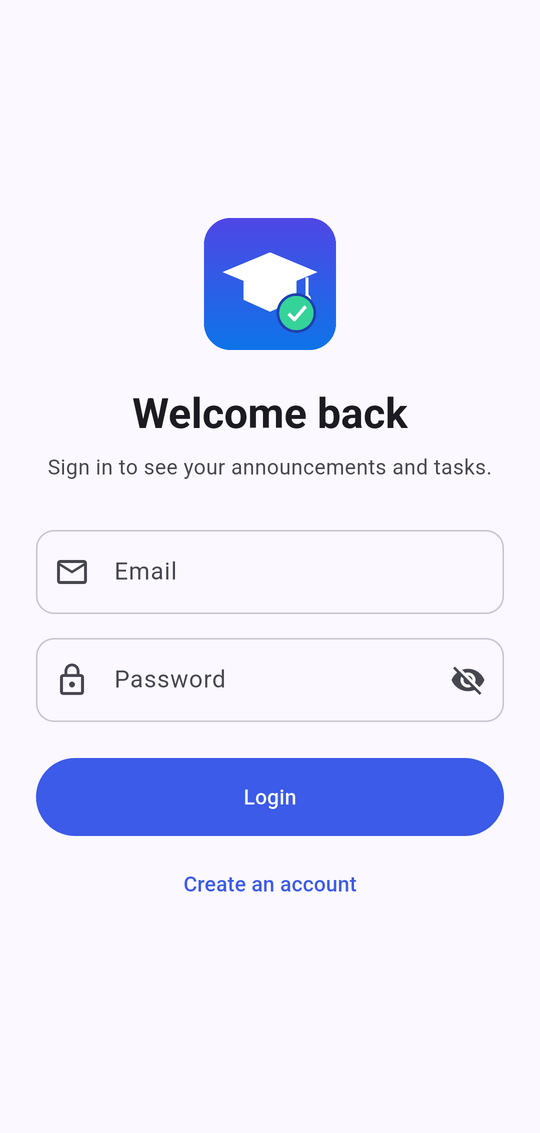
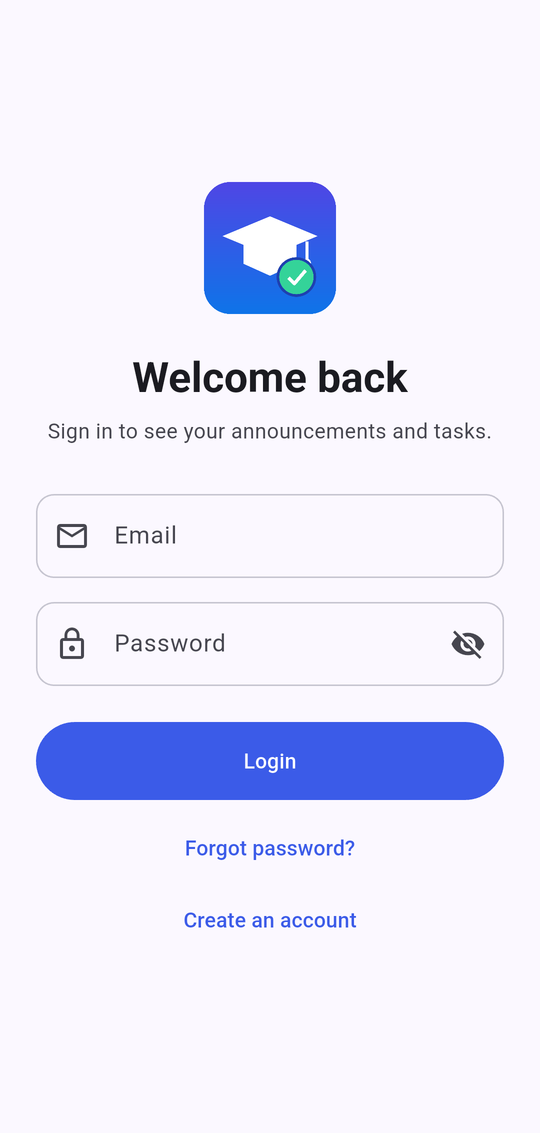
docs: document account security and add screenshots

Changed region(s): [[0.0593, 0.4325, 0.9481, 0.8341], [0.237, 0.1545, 0.8889, 0.4325], [0.0889, 0.3707, 0.2074, 0.4325]]

diff --git a/README.md b/README.md
@@ -23,7 +23,8 @@
 | **Announcements** | Category chips, full-text search, time-range filter; professors and admins can publish, edit and delete |
 | **Tasks** | Due dates with relative wording ("Due tomorrow", "3 days overdue"), status and overdue filters, search, pull-to-refresh |
 | **Administration** | Tabbed dashboard to manage users (role, suspension, name) and announcement categories |
-| **Accounts** | Email/password authentication, profile editing; suspended accounts are blocked at sign-in, signed out when the app resumes, and denied by the database |
+| **Accounts** | Email/password sign-up with **email verification** (6-digit code), a strong-password policy with a live checklist, **forgot-password** by emailed code, profile editing |
+| **Account safety** | Suspended or deleted accounts are blocked at sign-in, signed out when the app resumes, and denied by the database; breached passwords are refused |
 | **Appearance** | Light, dark or system theme, remembered on the device |
 
 Access control is enforced **in the database** with Postgres Row Level Security, not only in the UI. New accounts are always created as `student`, and only an admin can change a role.
@@ -42,6 +43,16 @@ Access control is enforced **in the database** with Postgres Row Level Security,
     <td><img src="docs/screenshots/06-account.png" alt="Account" width="220" /></td>
     <td><img src="docs/screenshots/07-admin-users.png" alt="Admin dashboard" width="220" /></td>
     <td><img src="docs/screenshots/08-home-light.png" alt="Dashboard (light)" width="220" /></td>
+  </tr>
+</table>
+
+### Account security
+
+<table>
+  <tr>
+    <td><img src="docs/screenshots/10-register.png" alt="Registration with live password checklist" width="220" /></td>
+    <td><img src="docs/screenshots/11-verify-email.png" alt="Email verification code" width="220" /></td>
+    <td><img src="docs/screenshots/12-reset-password.png" alt="Reset password" width="220" /></td>
   </tr>
 </table>
 
@@ -100,6 +111,9 @@ Everything is denied by default and the [migration](supabase/migrations/20260101
 
 - Profiles are created by a database trigger, always as `student`; a trigger blocks anyone from changing roles or suspension unless they are an admin, and admins cannot change their own.
 - Suspended users can read only their own profile, so the app can tell them why they are blocked.
+- **Passwords** need 8+ characters with upper and lower case, a number and a special character. The server enforces this (`supabase/config.toml`) and the app mirrors it for instant feedback. New passwords are also checked against known breaches with the Have I Been Pwned range API: only the first 5 characters of the password's SHA-1 hash leave the device, and the check never blocks sign-up if the service is unreachable.
+- **Email verification and password reset** use a 6-digit code typed into the app (templates in [`supabase/templates`](supabase/templates)), so they work on any phone without deep-link setup. Codes expire after 15 minutes and can be re-sent once a minute.
+- Passwords are never stored or readable: Supabase Auth keeps only a bcrypt hash.
 - Announcements are saved through one SQL function so the text and its categories change atomically.
 - The [pgTAP tests](supabase/tests/database/rls.test.sql) attack these rules (self-promotion, reading other people's tasks, publishing as a student, ...) and run in CI.
 
@@ -127,7 +141,9 @@ node tool/setup_local.mjs
 flutter run --dart-define-from-file=env.json
 ```
 
-The setup script prints the demo accounts (`demostudent@…`, `demoprofessor@…`, `demoadmin@campus-companion.test`) and a random password generated for that run; set `DEMO_PASSWORD` to choose your own.
+The setup script prints the demo accounts (`demostudent@…`, `demoprofessor@…`, `demoadmin@campus-companion.test`) and a random password generated for that run; set `DEMO_PASSWORD` to choose your own. The demo accounts are already verified.
+
+To try **sign-up and password reset** locally, open the Mailpit inbox at http://127.0.0.1:54324: every email the local stack sends lands there, including your 6-digit codes.
 
 On a **physical Android phone**, forward the port so the phone can reach the local API: `adb reverse tcp:54321 tcp:54321`. Plain HTTP is only allowed in *debug* builds (see `android/app/src/debug/AndroidManifest.xml`).
 
@@ -136,8 +152,9 @@ Running without `env.json` shows a "Setup required" screen explaining the same s
 ### Use your own Supabase project
 
 1. Create a project at [supabase.com](https://supabase.com) and run the migrations: `npx supabase link --project-ref <ref>` then `npx supabase db push`.
-2. Copy `env.example.json` to `env.json` and fill in the project URL and the **publishable** key (Project Settings → API). The key is designed to ship inside the app; the policies above are what protect your data. Never put a `secret`/`service_role` key in the app.
-3. Promote your first admin in the SQL editor: `update profiles set role = 'admin' where email = 'you@example.com';`. After that, roles are managed from the in-app admin dashboard.
+2. In **Authentication**, turn on *Confirm email*, set the minimum password length to 8 with lowercase, uppercase, digits and symbols required, and paste the two templates from `supabase/templates` into the *Confirm signup* and *Reset password* email templates (they show the 6-digit code through the Token variable). Configure a real SMTP provider: Supabase's built-in sender is heavily rate-limited and meant for testing only.
+3. Copy `env.example.json` to `env.json` and fill in the project URL and the **publishable** key (Project Settings → API). The key is designed to ship inside the app; the policies above are what protect your data. Never put a `secret`/`service_role` key in the app.
+4. Promote your first admin in the SQL editor: `update profiles set role = 'admin' where email = 'you@example.com';`. After that, roles are managed from the in-app admin dashboard.
 
 ## Testing
 
